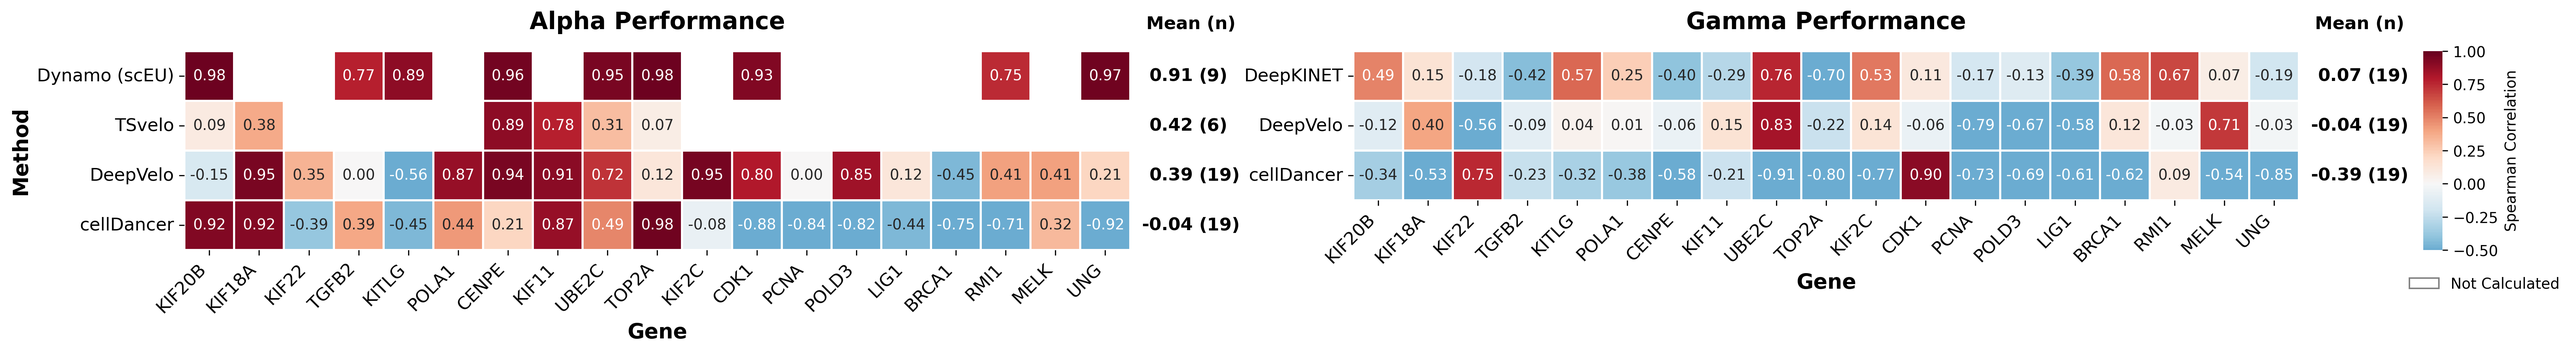
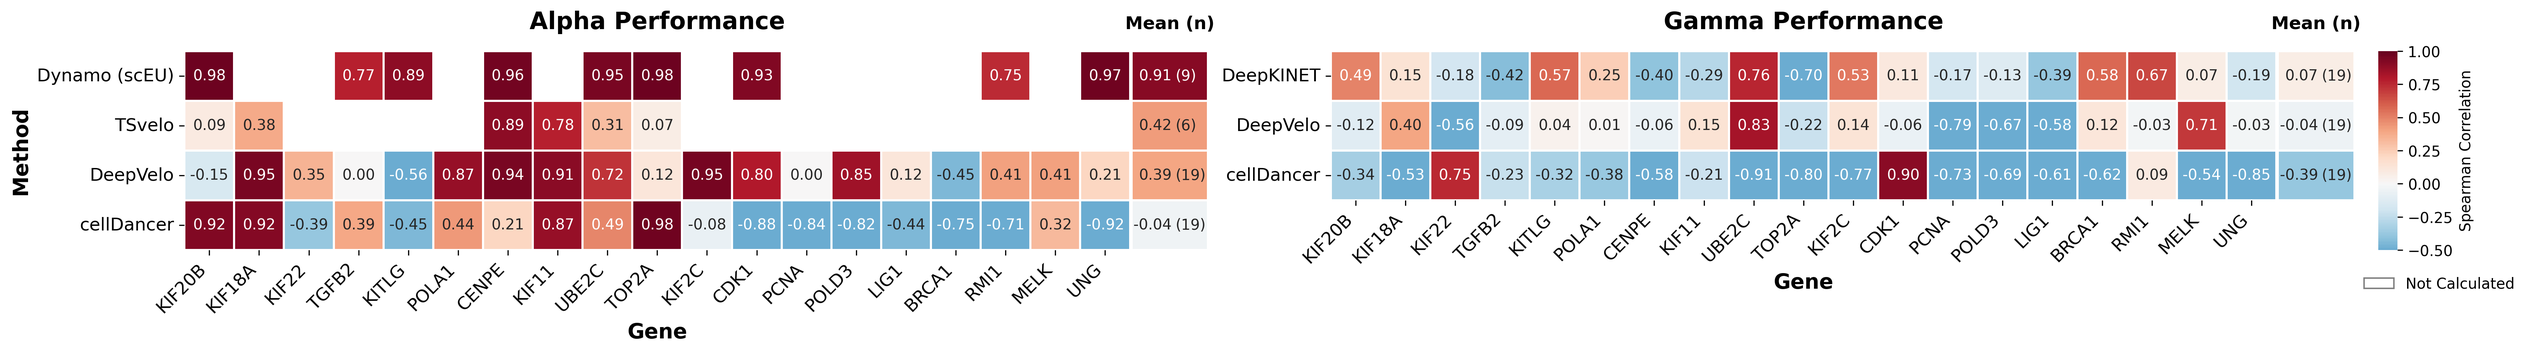
Align Figure 6C summary cells and add Figure 6D Macro-F1

diff --git a/evaluation/kinetics_recovery/plotting/figure6.py b/evaluation/kinetics_recovery/plotting/figure6.py
@@ -13,6 +13,7 @@ import matplotlib
 matplotlib.use("Agg")
 import matplotlib.patches as mpatches
 import matplotlib.pyplot as plt
+from matplotlib.transforms import Bbox
 try:
     from matplotlib_venn import venn2, venn2_circles
 except ModuleNotFoundError:
@@ -277,13 +278,13 @@ def plot_heatmap(
             mean_labels.append(axes[index].text(
                 1.082, row + 0.5, f"{scores.mean():.2f}",
                 transform=axes[index].get_yaxis_transform(),
-                fontsize=12, fontfamily="DejaVu Sans", fontweight="bold",
+                fontsize=10, fontfamily="DejaVu Sans", fontweight="normal",
                 ha="right", va="center",
             ))
             count_labels.append(axes[index].text(
                 1.096, row + 0.5, f"({scores.count()})",
                 transform=axes[index].get_yaxis_transform(),
-                fontsize=12, fontfamily="DejaVu Sans", fontweight="bold",
+                fontsize=10, fontfamily="DejaVu Sans", fontweight="normal",
                 ha="left", va="center",
             ))
         summary_columns.append((header, mean_labels, count_labels))
@@ -301,9 +302,9 @@ def plot_heatmap(
     )
     point = figure.dpi / 72
     for axis, (header, means, counts) in zip(axes, summary_columns):
-        column_left = axis.bbox.x1 + 8 * point
+        column_left = axis.bbox.x1 + 2.5 * point
         mean_right = column_left + mean_width
-        count_left = mean_right + 4 * point
+        count_left = mean_right + 2.5 * point
         inverse = axis.transAxes.inverted()
         for label in means:
             label.set_x(inverse.transform((mean_right, 0))[0])
@@ -320,7 +321,7 @@ def plot_heatmap(
     gamma_label_width = max(
         label.get_window_extent(renderer).width for label in axes[1].get_yticklabels()
     )
-    gap_pixels = 10 * figure.dpi / 72
+    gap_pixels = 12 * figure.dpi / 72
     right_bounds = axes[1].get_position()
     right_start = (mean_right + gamma_label_width + gap_pixels) / figure.bbox.width
     axes[1].set_position([right_start, right_bounds.y0, right_bounds.width, right_bounds.height])
@@ -344,6 +345,36 @@ def plot_heatmap(
         frameon=False,
         fontsize=10,
     )
+    # Summary cells use the same row boundaries and ScalarMappable as the
+    # gene heatmap. Only their physical width differs; n is not color-coded.
+    figure.canvas.draw()
+    renderer = figure.canvas.get_renderer()
+    for axis, (_, means, counts), frame in zip(
+        axes, summary_columns, (data["Alpha"], data["Gamma"])
+    ):
+        boxes = [label.get_window_extent(renderer) for label in (*means, *counts)]
+        inverse = axis.transAxes.inverted()
+        left = inverse.transform((min(box.x0 for box in boxes) - 1.5 * point, 0))[0]
+        right = inverse.transform((max(box.x1 for box in boxes) + 1.5 * point, 0))[0]
+        source_mesh = axis.collections[0]
+        limits = axis.get_xlim(), axis.get_ylim()
+        axis.pcolormesh(
+            [left, right], source_mesh.get_coordinates()[:, 0, 1],
+            frame.mean(axis=1).to_numpy()[:, None],
+            cmap=source_mesh.cmap, norm=source_mesh.norm,
+            transform=axis.get_yaxis_transform(), clip_on=False,
+            edgecolors="white", linewidths=source_mesh.get_linewidths(),
+            shading="flat", zorder=1,
+        )
+        axis.set_xlim(limits[0])
+        axis.set_ylim(limits[1])
+        for mean, count, value in zip(means, counts, frame.mean(axis=1)):
+            rgb = source_mesh.to_rgba(value)[:3]
+            linear = [v / 12.92 if v <= 0.04045 else ((v + 0.055) / 1.055) ** 2.4 for v in rgb]
+            luminance = sum(v * w for v, w in zip(linear, (0.2126, 0.7152, 0.0722)))
+            for label in (mean, count):
+                label.set_color("white" if luminance < 0.408 else "#262626")
+                label.set_zorder(3)
     figure.savefig(output_path, dpi=300, bbox_inches="tight")
     plt.close(figure)
     return data["Alpha"], data["Gamma"]
@@ -387,11 +418,8 @@ def plot_venn(
         raise RuntimeError("matplotlib-venn is required when rendering Venn panels")
     truth = cosine_classes(reference_alpha, reference_gamma)
     prediction = cosine_classes(prediction_alpha, prediction_gamma)
-    intervals = {
-        "Cooperative": r"(cosine $\leq -0.5$)",
-        "Neutral": r"($-0.5 <$ cosine $< 0.5$)",
-        "Destabilizing": r"(cosine $\geq 0.5$)",
-    }
+    if set.union(*truth.values()) != set.union(*prediction.values()):
+        raise ValueError("Macro-F1 requires the same classified gene universe for reference and prediction")
     figure = plt.figure(figsize=(15, 5))
     rows = []
     for index, category in enumerate(
@@ -409,11 +437,9 @@ def plot_venn(
             ax=axis,
         )
         venn2_circles(subsets=subsets, linewidth=1.5, color="gray", ax=axis)
-        # Figure coordinates keep both title lines aligned across all circles.
+        # Category headings share a baseline; thresholds are documented in Methods.
         figure.text((index - 0.5) / 3, 0.95, f"{category} Genes",
                     fontsize=12, fontweight="bold", ha="center", va="top")
-        figure.text((index - 0.5) / 3, 0.89, intervals[category],
-                    fontsize=11, ha="center", va="top")
         rows.append(
             {
                 "Class": category,
@@ -435,7 +461,27 @@ def plot_venn(
             )
     pd.DataFrame(membership_rows).to_csv(membership_output_path, index=False)
     plt.tight_layout(rect=[0, 0.03, 1, 0.84])
-    figure.savefig(output_path, dpi=300)
+    figure.canvas.draw()
+    renderer = figure.canvas.get_renderer()
+    gaps = [heading.get_window_extent(renderer).y0 - max(
+        circle.get_window_extent(renderer).y1 for circle in axis.patches
+    ) for heading, axis in zip(figure.texts, figure.axes)]
+    shift = max(0, min(gaps) - 8 * figure.dpi / 72) / figure.bbox.height
+    for axis in figure.axes:
+        bounds = axis.get_position()
+        axis.set_position([bounds.x0, bounds.y0 + shift, bounds.width, bounds.height])
+    macro_f1 = np.mean([
+        2 * row["intersection"] / (
+            2 * row["intersection"] + row["scEU_only"] + row[f"{prediction_label}_only"]
+        ) if row["intersection"] + row["scEU_only"] + row[f"{prediction_label}_only"] else 0
+        for row in rows
+    ])
+    # Shared footer baseline and crop retain the approved 4500 x 1305 canvas.
+    figure.text(0.5, 0.1591117071421362, f"Macro-F1 = {macro_f1:.3f}",
+                fontsize=16, fontweight="bold", ha="center", va="center")
+    figure.savefig(output_path, dpi=300,
+                   bbox_inches=Bbox.from_bounds(0, 195 / 300, 15, 1305 / 300),
+                   pad_inches=0)
     plt.close(figure)
     return pd.DataFrame(rows)
 

diff --git a/tests/test_kinetics_plotting.py b/tests/test_kinetics_plotting.py
@@ -3,6 +3,7 @@ import hashlib
 import json
 import tempfile
 import unittest
+from unittest.mock import patch
 from pathlib import Path
 
 
@@ -15,7 +16,7 @@ PLOTTING_ROOT = (
 
 
 class KineticsPlottingContractTests(unittest.TestCase):
-    def test_venn_two_line_titles_preserve_counts_and_membership(self):
+    def test_venn_macro_f1_preserves_counts_and_membership(self):
         import pandas as pd
         from evaluation.kinetics_recovery.plotting.figure6 import plot_venn, venn2
 
@@ -47,8 +48,9 @@ class KineticsPlottingContractTests(unittest.TestCase):
                     canonical / f"rpe1_{stem}_kinetic_class_membership.csv"))
                 svg = output.read_text()
                 self.assertIn("Cooperative Genes", svg)
-                self.assertIn("cosine", svg)
-                self.assertNotIn("Macro-F1", svg)
+                self.assertIn("Macro-F1", svg)
+                self.assertIn("0.340" if method == "DeepVelo" else "0.324", svg)
+                self.assertNotIn("cosine", svg)
                 self.assertNotIn("cosine_similarity", svg)
                 self.assertNotIn("Balanced accuracy", svg)
 
@@ -63,11 +65,31 @@ class KineticsPlottingContractTests(unittest.TestCase):
         source_hash = hashlib.sha256(source.read_bytes()).hexdigest()
         with tempfile.TemporaryDirectory() as directory:
             output = Path(directory) / "heatmap.svg"
-            frames = plot_heatmap(
-                {method: source for method in paths["Alpha"]},
-                {method: source for method in paths["Gamma"]},
-                config["heatmap_genes"], output,
-            )
+            import matplotlib.pyplot as plt
+            import numpy as np
+            with patch.object(plt, "close"):
+                frames = plot_heatmap(
+                    {method: source for method in paths["Alpha"]},
+                    {method: source for method in paths["Gamma"]},
+                    config["heatmap_genes"], output,
+                )
+                figure = plt.gcf()
+            for axis, frame in zip(figure.axes[:2], frames):
+                gene_mesh, summary_mesh = axis.collections[:2]
+                np.testing.assert_array_equal(
+                    gene_mesh.get_coordinates()[:, 0, 1],
+                    summary_mesh.get_coordinates()[:, 0, 1],
+                )
+                np.testing.assert_allclose(
+                    summary_mesh.get_array().ravel(), frame.mean(axis=1),
+                )
+                self.assertIs(gene_mesh.cmap, summary_mesh.cmap)
+                self.assertIs(gene_mesh.norm, summary_mesh.norm)
+                for label in axis.texts:
+                    if label.get_transform() is axis.get_yaxis_transform():
+                        self.assertEqual(label.get_fontsize(), 10)
+                        self.assertEqual(label.get_fontweight(), "normal")
+            plt.close(figure)
             for parameter, frame in zip(("alpha", "gamma"), frames):
                 expected = pd.read_csv(
                     root / f"figures/fig6/plot_data/rpe1_{parameter}_heatmap.csv",

diff --git a/evaluation/kinetics_recovery/README.md b/evaluation/kinetics_recovery/README.md
@@ -119,14 +119,24 @@ Method-specific extraction is retained:
 
 Panel B applies a display-only z-score separately to processed reference
 and prediction profiles. This z-score is not used for Spearman or turnover
-classification. Panel C displays selected-gene Spearman scores.
+classification. Panel C displays selected-gene Spearman scores. Its `Mean (n)`
+column reports each method's mean over finite displayed scores and the number
+of those scores. Summary cells share the gene heatmap's color scale and row
+boundaries; their color encodes the unrounded mean, not the gene count.
 
 Panel D independently classifies reference and predicted processed
 alpha/gamma trajectories: cosine <= -0.5 is cooperative, cosine >= 0.5 is
 destabilizing, and intermediate values are neutral. Genes without finite
 paired values or with zero vector norm are unclassified. Only DeepVelo and
 cellDancer provide both parameters in this comparison. Save both class-count
-and per-gene membership tables.
+and per-gene membership tables. Panel D reports Macro-F1 below each method's
+three Venn diagrams, without repeating the cosine intervals in the image.
+For the same classified gene universe (currently 250 genes), compute each
+class F1 as `2 TP / (2 TP + FP + FN)` and take the unweighted mean over the
+three classes. The intersections are TP, prediction-only members are FP,
+and reference-only members are FN. The displayed Macro-F1 values are 0.324
+for cellDancer and 0.340 for DeepVelo; the memberships and class counts are
+unchanged. This set differs from the 19-gene parameter display in panels B/C.
 
 ### Organoid
 
